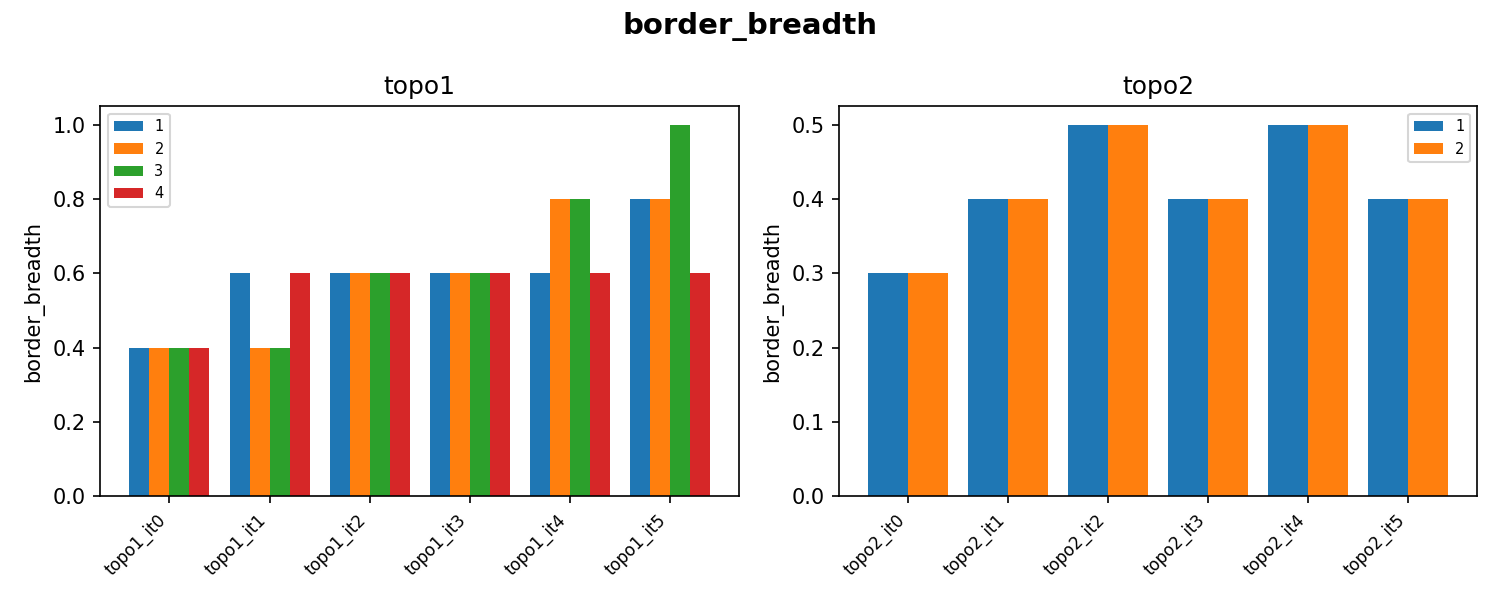
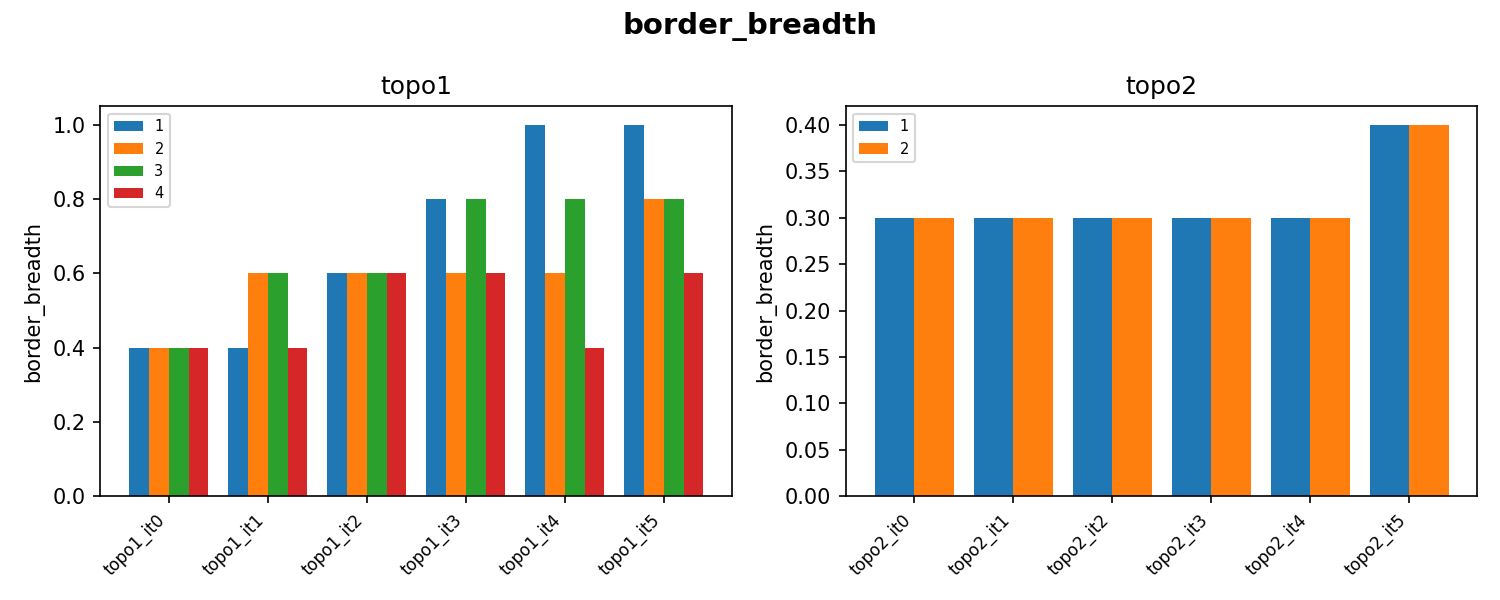
exclude aggregate min cut edges from local max cut

diff --git a/scripts/network-partition-scipy.py b/scripts/network-partition-scipy.py
@@ -113,12 +113,11 @@ def initial_partition(n, r, mask_nodes):
     k = round(len(perm) * r)
     return perm[:k]
 
-def partition_pass(G, r, mode="min", mask_nodes=[]):
-    n = len(G.nodes())
+def partition_pass(adj_sp, r, mode="min", mask_nodes=[]):
+    n = adj_sp.shape[0]
     if n == 0:
         return None
 
-    adj_sp = nx.to_scipy_sparse_array(G).tocoo()
     assert adj_sp.shape == (n, n)
 
     mask_bool = torch.zeros(n, dtype=torch.bool)
@@ -188,34 +187,25 @@ def partition_pass(G, r, mode="min", mask_nodes=[]):
 # the agg_adj_sp is all min_adj_sp equal and minimum size aggregated, meaning
 # all minimum edges are removed from it.
 
-def get_cur_adj_sp(min_cut_data):
-    return np.max(min_cut_data, 0)
+def get_cur_min_edges(min_cut_data):
+    return -np.minimum(min_cut_data, 0)
 
-def aggregate_min_adj(agg_adj_sp, cur_adj_sp):
-    if (agg_adj_sp):
-        agg_adj_sp = cur_adj_sp.copy()
+def aggregate_min_edges(agg_min_edges, cur_min_edges):
+    if (agg_min_edges.shape[0] == 0):
+        agg_min_edges = cur_min_edges.copy()
     else:
-        agg_adj_sp = np.min(agg_adj_sp, cur_adj_sp)
+        agg_adj_sp = np.maximum(agg_min_edges, cur_min_edges)
     return agg_adj_sp
-
-def update_agg_adj(agg_adj_sp, min_adj_sp, cur_adj_sp):
-    if (min_adj_sp.nnz < cur_adj_sp.nzz):
-        min_adj_sp = cur_adj_sp
-        agg_adj_sp = min_adj_sp
-    elif (min_adj_sp.nnz == cur_adj_sp.nzz):
-        agg_adj_sp = aggregate_min_adj(agg_adj_sp, cur_adj_sp)
-
-    return agg_adj_sp, min_adj_sp
 
 
 # --- Top-level ---------------------------------------------------------------
 
-def run(G, mode="min", mask_nodes=[]):
+def run(adj_mat, mode="min", mask_nodes=[]):
     results = {}
     opt = (lambda x, y: x < y) if mode == "min" else (lambda x, y: x > y)
-    agg_adj_sp = None
-    min_adj_sp = None
-    cur_adj_sp = None
+    agg_min_edges = []
+    min_edges = []
+    cur_min_edges = []
 
     for r in R_VALUES:
         start = time.time()
@@ -224,23 +214,23 @@ def run(G, mode="min", mask_nodes=[]):
         updates = 0
 
         for i in range(NR_PASSES):
-            res = partition_pass(G, r, mode=mode, mask_nodes=mask_nodes)
+            res = partition_pass(adj_mat, r, mode=mode, mask_nodes=mask_nodes)
             if res is None:
                 continue
 
             ch, part_a, cut_values = res
-            cur_adj_sp = get_cur_adj_sp(cut_values)
+            cur_min_edges = get_cur_min_edges(cut_values)
             if ch == best_cheeger:
-                # if equal, the cut is aggregated to the agg_adj_sp
-                agg_adj_sp = aggregate_min_adj(agg_adj_sp, cur_adj_sp)
+                # if equal, the cut is aggregated to the agg_min_edges
+                agg_min_edges = aggregate_min_edges(agg_min_edges, cur_min_edges)
             elif opt(ch, best_cheeger):
                 best_cheeger = ch
                 best_partition = (ch, part_a, cut_values)
                 updates += 1
 
                 # if better cheeger is found, min_adj_sp and and agg_adj_sp are overwritten
-                min_adj_sp = cur_adj_sp
-                agg_adj_sp = min_adj_sp
+                min_edges = cur_min_edges
+                agg_min_edges = min_edges.copy()
 
             print(f"r={r} pass {i}  updates={updates}  cheeger={ch:.6f}")
 
@@ -249,7 +239,7 @@ def run(G, mode="min", mask_nodes=[]):
             results[str(r)] = None
         else:
             ch, part_a, cut_values = best_partition
-            results[str(r)] = {"cheeger": ch, "partition": part_a, "cut_values": cut_values}
+            results[str(r)] = {"cheeger": ch, "partition": part_a, "cut_values": cut_values, "agg_min_edges": agg_min_edges}
 
         print(f"r={r}: {elapsed:.2f}s")
 
@@ -261,10 +251,10 @@ def run(G, mode="min", mask_nodes=[]):
 def can_connect(G, u, v):
     return G.nodes[u]["isd_n"] == G.nodes[v]["isd_n"] or (G.nodes[u]["is_core"] and G.nodes[v]["is_core"])
 
-def get_global_max_cut(G, min_cut_values, list_a, list_b):
-    n = len(G.nodes())
-    result_a = max(run(G, mode="max", mask_nodes=list_b).values(), key=lambda x: x["cheeger"])
-    result_b = max(run(G, mode="max", mask_nodes=list_a).values(), key=lambda x: x["cheeger"])
+def get_global_max_cut(adj_sp, agg_adj_sp, list_a, list_b):
+    n = adj_sp.shape[0]
+    result_a = max(run(agg_adj_sp, mode="max", mask_nodes=list_b).values(), key=lambda x: x["cheeger"])
+    result_b = max(run(agg_adj_sp, mode="max", mask_nodes=list_a).values(), key=lambda x: x["cheeger"])
 
     if result_a["cheeger"] >= result_b["cheeger"]:
         max_res = result_a
@@ -275,8 +265,7 @@ def get_global_max_cut(G, min_cut_values, list_a, list_b):
         active_mask = list_a
         anti_mask = list_b
 
-    adj_sp = nx.to_scipy_sparse_array(G).tocoo()
-    max_adj_sp = initialize_adj_matrix(adj_sp, active_mask, n)
+    max_adj_sp = initialize_adj_matrix(agg_adj_sp, active_mask, n)
     max_cut_values = max_res["cut_values"]
     max_res = max([result_a, result_b], key=lambda x: x["cheeger"])
 
@@ -295,13 +284,6 @@ def get_global_max_cut(G, min_cut_values, list_a, list_b):
 
     # max_cut and min_cut as full-graph sparse matrices (masked nodes already zeroed via initialize_adj_matrix)
     max_cut_sp = scipy.sparse.coo_matrix((max_cut_values, (max_adj_sp.row, max_adj_sp.col)), shape=(n, n))
-    min_cut_sp = scipy.sparse.coo_matrix((min_cut_values, (adj_sp.row, adj_sp.col)), shape=(n, n))
-    def same_sparsity(A, B):
-        a = A.tocsr()
-        b = B.tocsr()
-        return np.array_equal(a.indices, b.indices) and np.array_equal(a.indptr, b.indptr)
-
-    assert same_sparsity(adj_sp, min_cut_sp), "adj_sp and min_cut_sp must have matching sparsity pattern"
 
     anti_mask_diag = scipy.sparse.diags([1.0 if i in set(anti_mask) else 0.0 for i in range(n)])
     active_mask_diag = scipy.sparse.diags([1.0 if i in set(active_mask) else 0.0 for i in range(n)])
@@ -312,27 +294,27 @@ def get_global_max_cut(G, min_cut_values, list_a, list_b):
 
     valid_sp = anti_mask_diag @ valid_sp @ active_mask_diag
 
-    min_cut_neg = min_cut_sp.minimum(0)  # -1 where cut, 0 elsewhere
     max_cut_neg = max_cut_sp.minimum(0)
 
     # count cut edges per node, restricted to valid edges only
-
-    n_edges = adj_sp.nnz / 2
 
     # u: valid rows only
     row_cut_counts = np.array(max_cut_neg.sum(axis=1)).flatten()
     u_scores = np.zeros(n)
     valid_rows = np.unique(valid_sp.tocoo().row)
     u_scores[valid_rows] = -row_cut_counts[valid_rows]
-    row_cut_counts = np.array(min_cut_neg.sum(axis=1)).flatten()
-    u_scores[valid_rows] += row_cut_counts[valid_rows]
     u = int(np.argmax(u_scores))
 
     # v: valid cols only
-    col_cut_counts = np.array(min_cut_neg.sum(axis=0)).flatten()
     v_scores = np.zeros(n)
     valid_cols = np.unique(valid_sp.tocoo().col)
-    v_scores[valid_cols] = n_edges + col_cut_counts[valid_cols]
+    v_scores[valid_cols] = 1.0
+    v = int(np.argmax(v_scores))
+
+    col_cut_counts = np.array((agg_adj_sp - adj_sp).sum(axis=0)).flatten()
+    v_scores = np.zeros(n)
+    valid_cols = np.unique(valid_sp.tocoo().col)
+    v_scores[valid_cols] = adj_sp.nnz + col_cut_counts[valid_cols]
     v = int(np.argmax(v_scores))
 
     highlight_nodes(G, {u}, color="blue")
@@ -350,14 +332,23 @@ def get_global_max_cut(G, min_cut_values, list_a, list_b):
     return (u, v_old), (u, v)
 
 def iteration(G, path, iteration):
-    min_res = min(run(G).values(), key=lambda x: x["cheeger"])
+    full_adj = nx.to_scipy_sparse_array(G).tocoo()
+
+    min_res = min(run(full_adj).values(), key=lambda x: x["cheeger"])
     min_partition = min_res["partition"]
 
     min_set_a = set(min_partition)
     min_edges = [(u, v) for (u, v) in G.edges if (u in min_set_a) != (v in min_set_a)]
     draw_partition(G, min_set_a, min_edges)
 
-    del_edge, new_edge = get_global_max_cut(G, min_res["cut_values"], min_partition, list(set(G.nodes()) - min_set_a))
+    agg_min_edges = min_res["agg_min_edges"]  # 0/1 array, length = full_adj.nnz
+    non_cut_mask = agg_min_edges == 0
+    adj_mat_no_min = scipy.sparse.coo_matrix(
+        (full_adj.data[non_cut_mask], (full_adj.row[non_cut_mask], full_adj.col[non_cut_mask])),
+        shape=full_adj.shape
+    )
+
+    del_edge, new_edge = get_global_max_cut(full_adj, adj_mat_no_min, min_partition, list(set(G.nodes()) - min_set_a))
     print(new_edge, del_edge)
 
     G.add_edge(new_edge[0], new_edge[1])
